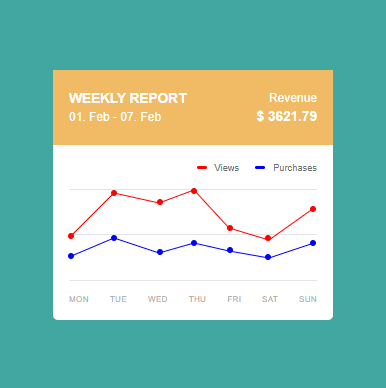
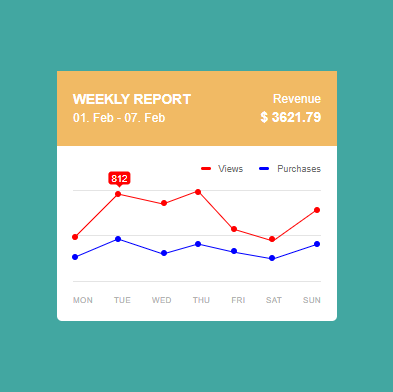
Ajsutando formato do tooltip e imagem do main project

diff --git a/day05/index.html b/day05/index.html
@@ -39,25 +39,25 @@
                         <div class="points">
                             <div class="red__points">
                                 <div class="point-1 redcircle">
-                                    <div class="tolltip">458</div>
+                                    <div class="tolltip ttred">458</div>
                                 </div>
                                 <div class="point-2 redcircle">
-                                    <div class="tolltip">812</div>
+                                    <div class="tolltip ttred">812</div>
                                 </div>
                                 <div class="point-3 redcircle">
-                                    <div class="tolltip">746</div>
+                                    <div class="tolltip ttred">746</div>
                                 </div>
                                 <div class="point-4 redcircle">
-                                    <div class="tolltip">877</div>
+                                    <div class="tolltip ttred">877</div>
                                 </div>
                                 <div class="point-5 redcircle">
-                                    <div class="tolltip">517</div>
+                                    <div class="tolltip ttred">517</div>
                                 </div>
                                 <div class="point-6 redcircle">
-                                    <div class="tolltip">434</div>
+                                    <div class="tolltip ttred">434</div>
                                 </div>
                                 <div class="point-7 redcircle">
-                                    <div class="tolltip">458</div>
+                                    <div class="tolltip ttred ">458</div>
                                 </div>  
                             </div>
                             <div class="blue__points">

diff --git a/day05/style.css b/day05/style.css
@@ -179,10 +179,28 @@ svg  {
     font-size: .6rem;
     width: 22px;
     height: 13px;
-    position: relative;
+    position: absolute;
     border-radius: 3px;
     color: white;
     visibility: hidden;
+
+}
+
+.tolltip::after{
+    content: " ";
+    position: absolute;
+    border-width: 5px;
+    border-style: solid;
+    transform: rotate(180deg);
+    top: 90%;
+}
+
+.redcircle .tolltip::after{
+    border-color: transparent transparent red transparent;
+}
+
+.bluecircle .tolltip::after{
+    border-color: transparent transparent blue transparent;
 }
 
 .bluecircle > .tolltip{
